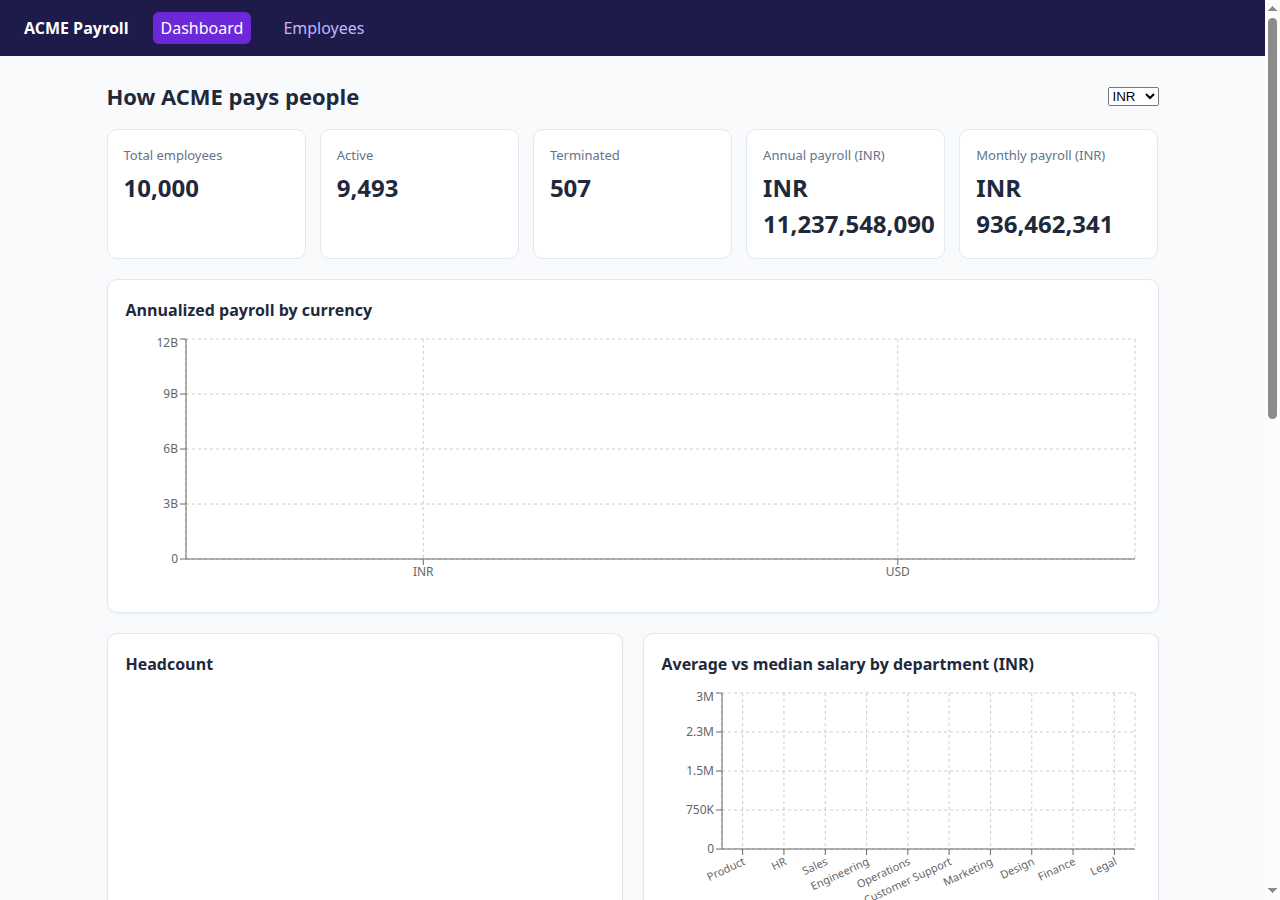
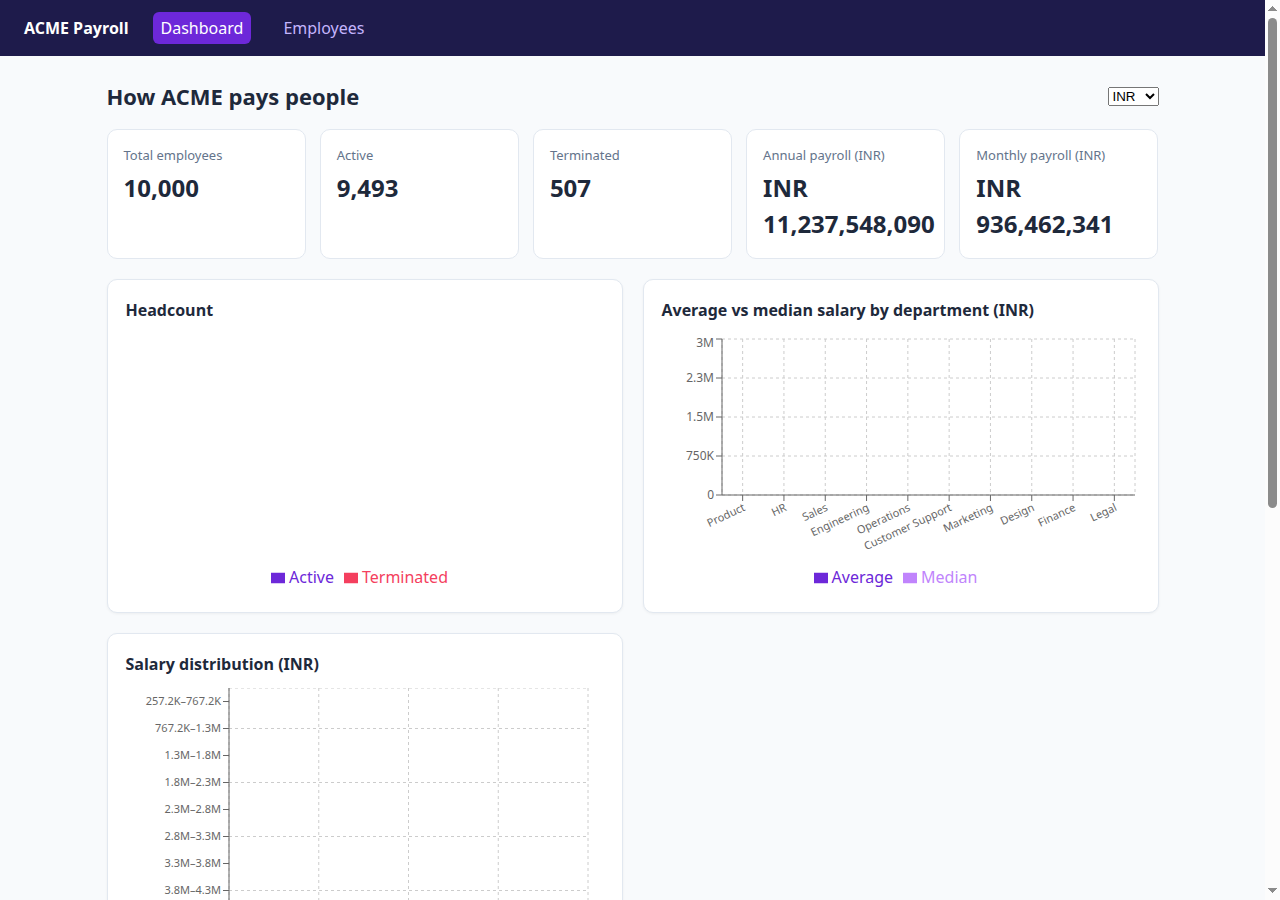
refactor: remove redundant payroll-by-currency chart (cards already show it)

diff --git a/frontend/src/pages/DashboardPage.tsx b/frontend/src/pages/DashboardPage.tsx
@@ -34,15 +34,6 @@ export default function DashboardPage() {
     }).catch((e: Error) => setError(e.message))
   }, [])
 
-  const payrollData = useMemo(
-    () =>
-      Object.entries(summary?.payroll ?? {}).map(([currency, value]) => ({
-        currency,
-        annualized: Math.round(value.annualized),
-      })),
-    [summary],
-  )
-
   const headcountData = useMemo(() => {
     if (!summary) return []
     return [
@@ -101,19 +92,6 @@ export default function DashboardPage() {
       </div>
 
       <div className="charts">
-        <div className="card full">
-          <h2>Annualized payroll by currency</h2>
-          <ResponsiveContainer width="100%" height={260}>
-            <BarChart data={payrollData}>
-              <CartesianGrid strokeDasharray="3 3" />
-              <XAxis dataKey="currency" tick={{ fontSize: 12 }} />
-              <YAxis tickFormatter={(v) => formatCompact(v as number)} width={55} tick={{ fontSize: 12 }} />
-              <Tooltip formatter={(v) => formatNumber(v as number)} />
-              <Bar dataKey="annualized" fill="#6d28d9" radius={[4, 4, 0, 0]} />
-            </BarChart>
-          </ResponsiveContainer>
-        </div>
-
         <div className="card">
           <h2>Headcount</h2>
           <ResponsiveContainer width="100%" height={260}>
